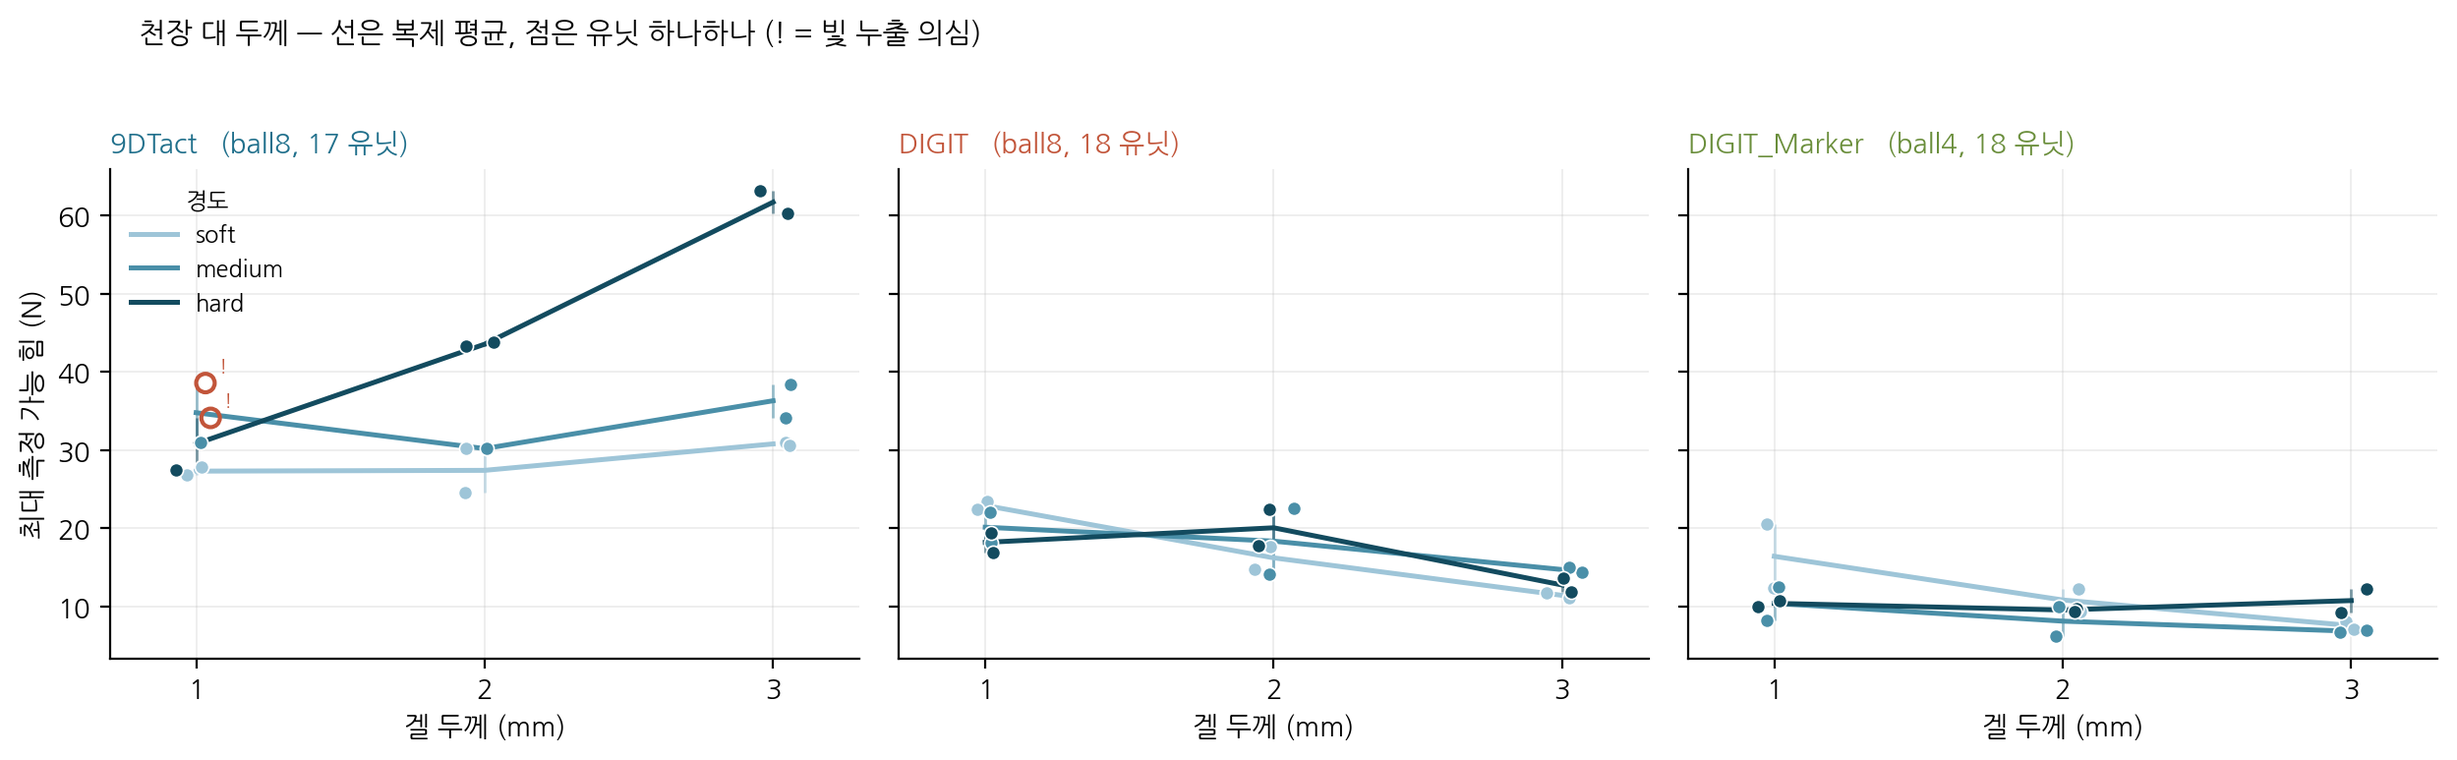
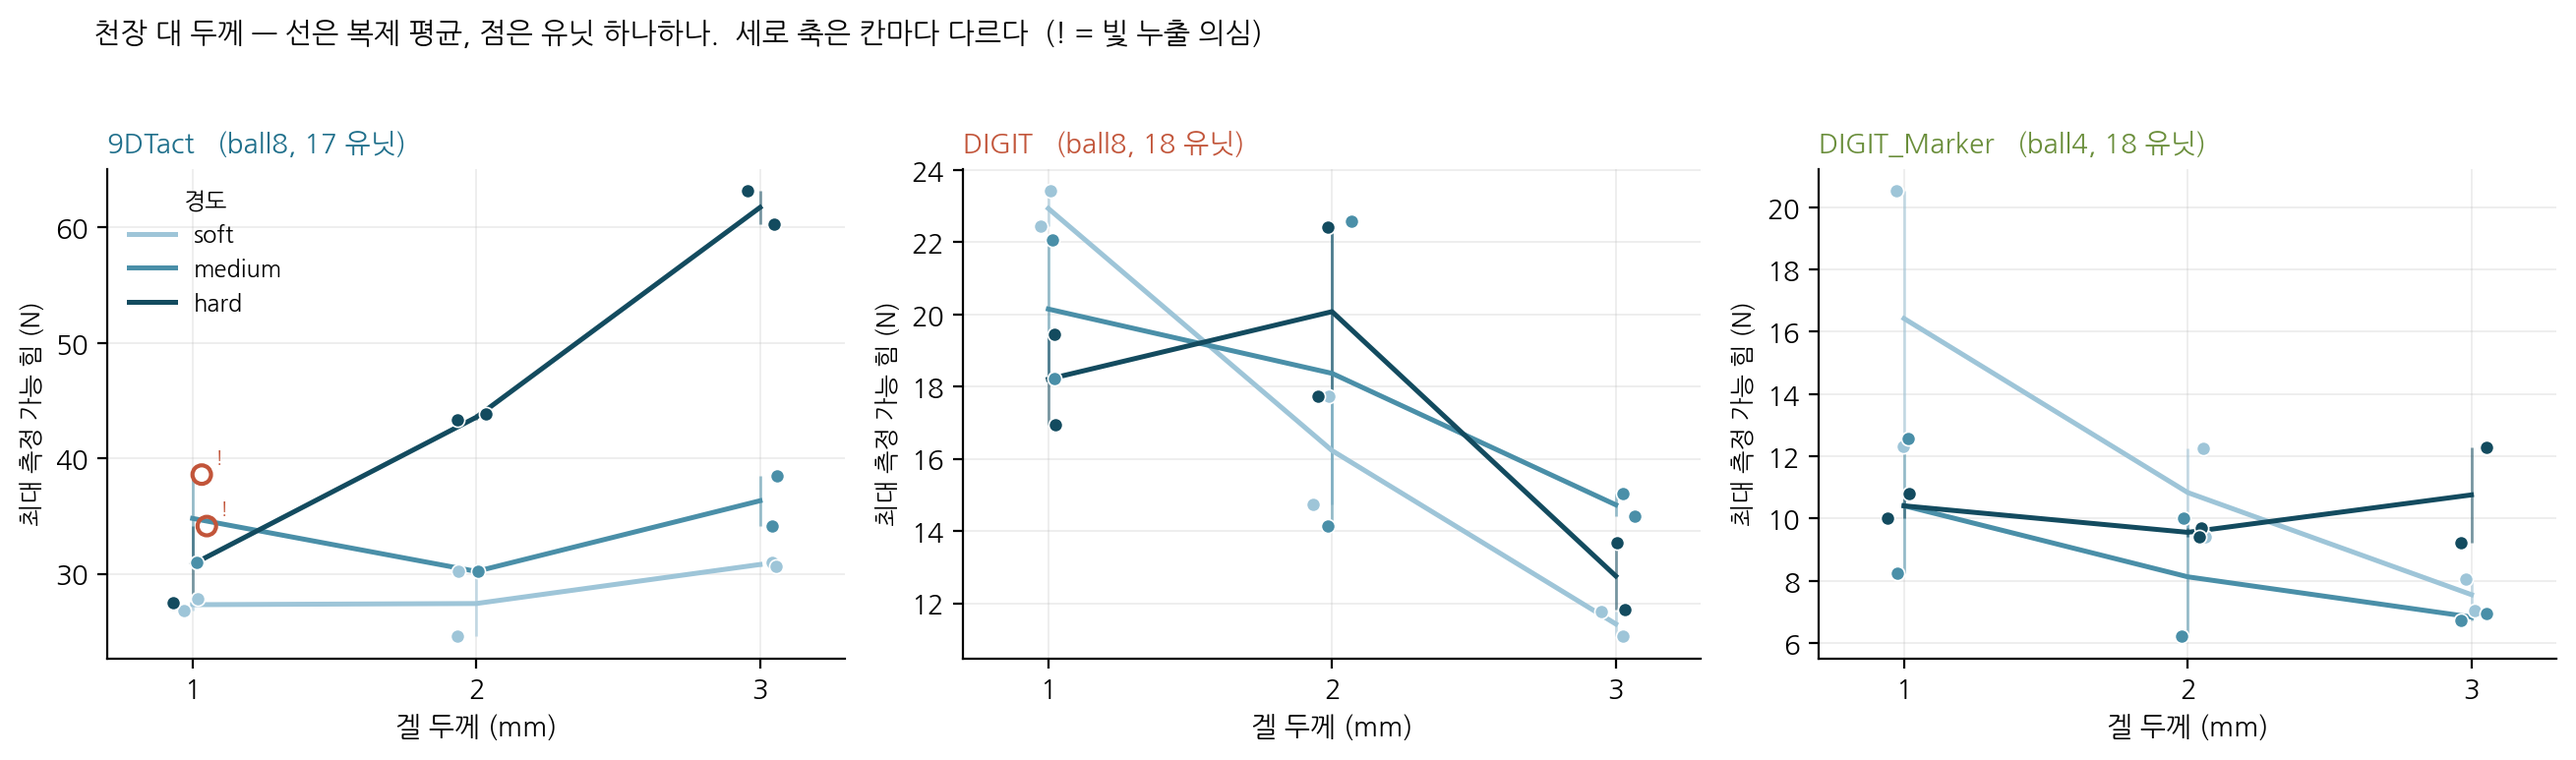
그림 B: 세로 축을 원리마다 따로 쓴다
9DTact 가 63 N 까지 가는데 DIGIT 계열은 6~23 N 이라, 축을 묶으면 DIGIT 과
Marker 의 기울기가 아래쪽에 눌려 보이지 않았다. sharey 를 끄고 y 라벨을
칸마다 달아 축이 따로라는 것이 눈금과 함께 읽히게 한다.

세로로 비교하면 안 된다는 것은 어차피 이미 참이다 -- Marker 는 프로브가
달라 다른 자로 잰 값이다(force_ceiling.md 6.7). 그림 제목과 results.md 의
설명글에 축이 다르다고 적었다.

곁가지: 그림 제목에 마크다운 별표를 썼더니 별표가 그대로 그려졌다.
matplotlib 은 마크다운을 그리지 않는다.

diff --git a/src/scripts/make_result_figures.py b/src/scripts/make_result_figures.py
@@ -120,8 +120,12 @@ def fig_B(D):
     선으로 잇는다. 세로 막대는 두 복제의 폭이다.
     """
     prs = [p for p in ("9DTact", "DIGIT", "DIGIT_Marker") if (D.principle == p).any()]
-    fig, axes = plt.subplots(1, len(prs), figsize=(4.2 * len(prs), 3.9),
-                             sharey=True, squeeze=False)
+    # **y 축을 공유하지 않는다.** 9DTact 가 63 N 까지 가는데 DIGIT 계열은 6~23 N 이라,
+    # 축을 묶으면 DIGIT 과 Marker 의 기울기가 아래쪽에 눌려 보이지 않는다. 축이 다르다는
+    # 것은 제목과 그림 제목에 적고, 어차피 Marker 는 프로브가 달라 세로로 비교하면
+    # 안 되는 값이다(force_ceiling.md 6.7).
+    fig, axes = plt.subplots(1, len(prs), figsize=(4.4 * len(prs), 3.9),
+                             sharey=False, squeeze=False)
     axes = axes[0]
     rng = np.random.default_rng(0)
     for ax, pr in zip(axes, prs):
@@ -154,10 +158,13 @@ def fig_B(D):
                      loc="left", color=C[pr])
         ax.set_xticks([1, 2, 3]); ax.set_xlim(.7, 3.3)
         ax.set_xlabel("겔 두께 (mm)"); style(ax)
-    axes[0].set_ylabel("최대 측정 가능 힘 (N)")
+        # y 라벨을 칸마다 단다 — 축이 따로라는 것을 눈금과 함께 보이게 한다
+        ax.set_ylabel("최대 측정 가능 힘 (N)", fontsize=9)
     axes[0].legend(frameon=False, fontsize=8.5, title="경도", title_fontsize=8.5)
-    fig.suptitle("천장 대 두께 — 선은 복제 평균, 점은 유닛 하나하나 "
-                 f"({RC.MARK} = {RC.LABEL})", fontsize=10.5, x=.06, ha="left")
+    # matplotlib 은 마크다운을 그리지 않는다 — 별표를 쓰면 별표가 그대로 나온다
+    fig.suptitle("천장 대 두께 — 선은 복제 평균, 점은 유닛 하나하나.  "
+                 f"세로 축은 칸마다 다르다  ({RC.MARK} = {RC.LABEL})",
+                 fontsize=10.5, x=.04, ha="left")
     fig.tight_layout(rect=[0, 0, 1, .95])
     save(fig, D[["principle", "probe", "unit", "hardness", "thickness_mm",
                  "ceiling_N", "depth_mm", "suspect_hardware"]],

diff --git a/src/scripts/make_results_md.py b/src/scripts/make_results_md.py
@@ -222,7 +222,9 @@ def main():
     w()
     fig("extra/figures/B_ceiling_vs_thickness.png",
         "천장 대 두께, 경도별 — 세 원리. 선은 복제 평균, 점은 유닛 하나하나, "
-        "세로 막대는 두 복제의 폭. 속이 빈 붉은 원이 빛 누출 의심 유닛이다.")
+        "세로 막대는 두 복제의 폭. 속이 빈 붉은 원이 빛 누출 의심 유닛이다. "
+        "**세로 축은 원리마다 다르다** — 9DTact 가 63 N 까지 가는데 DIGIT 계열은 "
+        "6 ~ 23 N 이라 축을 묶으면 DIGIT 과 Marker 의 기울기가 눌려 보이지 않는다.")
     w("**9DTact 는 두께가 늘면 오르고 DIGIT 계열은 내려간다.** 점을 다 찍었으므로")
     w("평균선이 두 복제 중 어느 쪽에 끌려갔는지 바로 보인다 — 예컨대 9DTact 의")
     w("`medium 2 mm` 는 점이 하나뿐이고(짝은 2026-09-04 에 파괴됐다), `soft 2 mm` 는")
